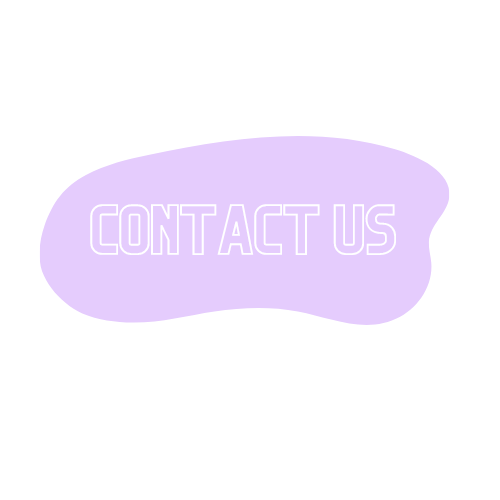
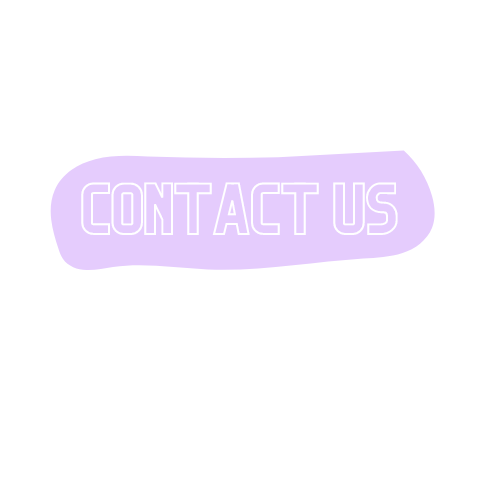
contact button styled, nav bar styling

Changed region(s): [[0.06, 0.3, 0.87, 0.66], [0.3, 0.27, 0.78, 0.33], [0.81, 0.3, 0.9, 0.45]]

diff --git a/react-app/src/components/LandingPage/Header.js b/react-app/src/components/LandingPage/Header.js
@@ -6,6 +6,7 @@ import logIn from '../graphics/login.png';
 import logo from '../graphics/cozy-note2-logo.png'
 import signup from '../graphics/signup-head.png'
 import repo from '../graphics/repo.png';
+import contact from '../graphics/contact.png';
 import './LandingPage.css';
 
 
@@ -21,20 +22,19 @@ export default function Header() {
                         <img src={logo} alt='logo' />
                     </NavLink>
                 </li>
-                <li className='signUp'>
+                <li className='nav-button'>
                     <NavLink to='/sign-up' exact={true} activeClassName='active'>
                         <img src={signup} alt='logo' />
                     </NavLink>
                 </li>
-                <li className='project-repo'>
+                <li className='nav-button'>
                     <a target='_blank' rel='noopener noreferrer' href="https://github.com/andrea-green/Cozy-Note" exact={true} activeClassName='active'>
                         <img src={repo} alt='logo' />
                     </a>
                 </li>
-                <li className='contact-me'>
+                <li className='nav-button'>
                     <a target='_blank' rel='noopener noreferrer' href="**link**" exact={true} activeClassName='active'>
-                        <h1> Contact Us </h1>
-                        {/* <img src={contanct} alt='logo' /> */}
+                        <img src={contact} alt='logo' />
                     </a>
                 </li>
                 <li>

diff --git a/react-app/src/components/LandingPage/LandingPage.css b/react-app/src/components/LandingPage/LandingPage.css
@@ -3,16 +3,24 @@
     align-items: center;
 }
 
-.signUp img{
+.nav-button img{
     height: 30vh;
     cursor: pointer;
 }
 
-.project-repo img{
-    height: 30vh;
-    cursor: pointer;
-}
 
 .login {
-    margin-left: 25%;
+    margin-left: 15%;
+
+}
+
+.login img {
+    height: 30vh;
+    width: 17vw;
+    margin-left: -1rem;
+}
+
+.personal-links{
+    margin-left: 0%;
+    margin-right: 0%;
 }
